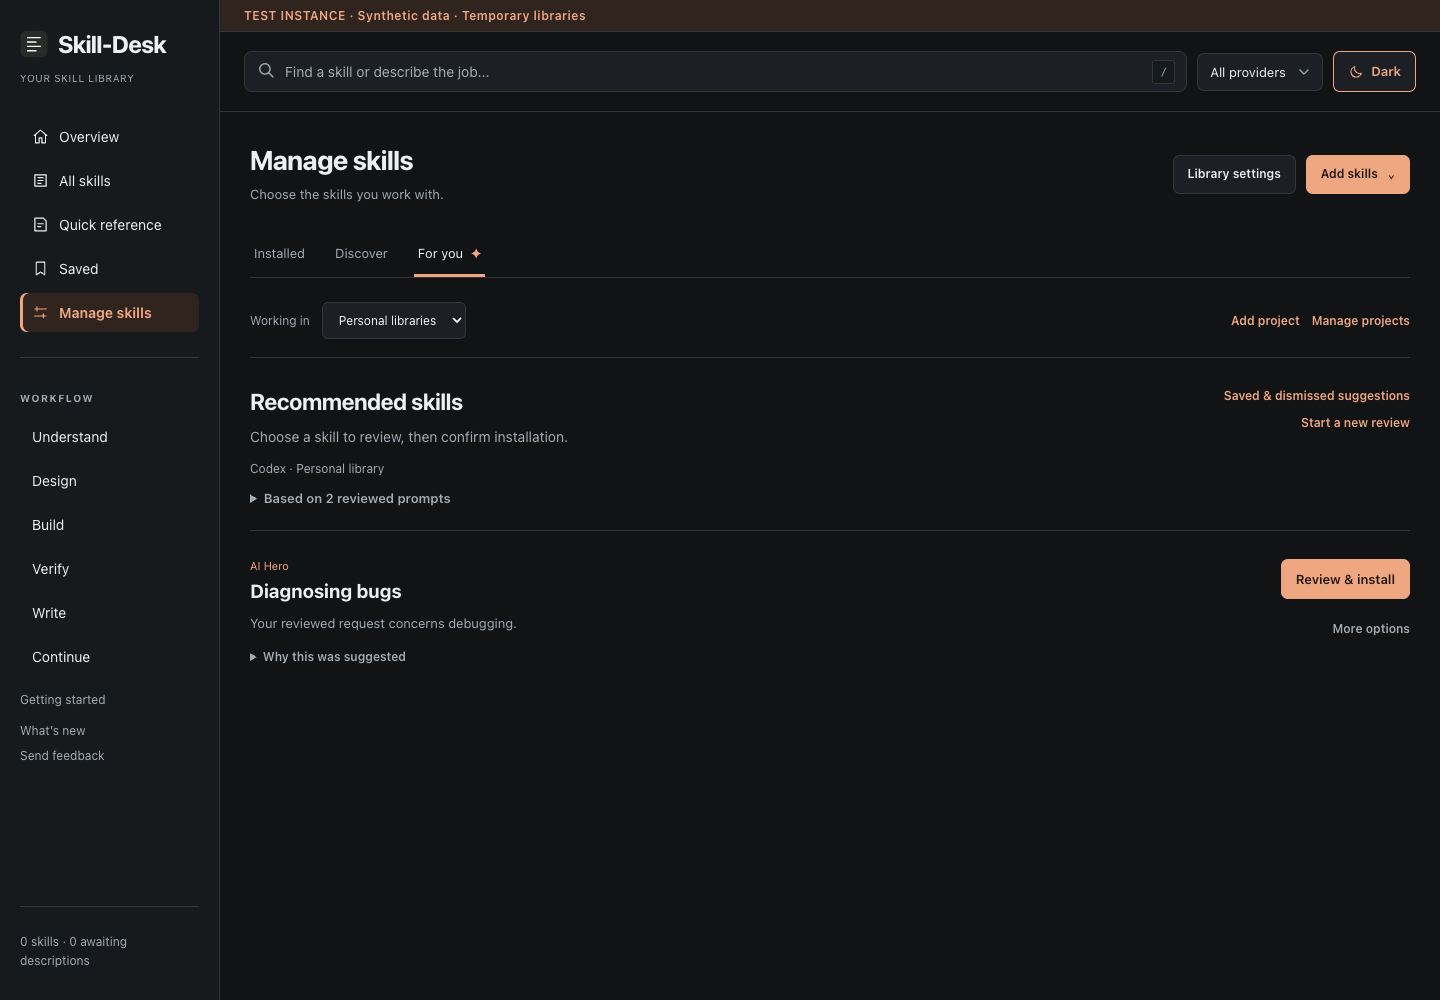
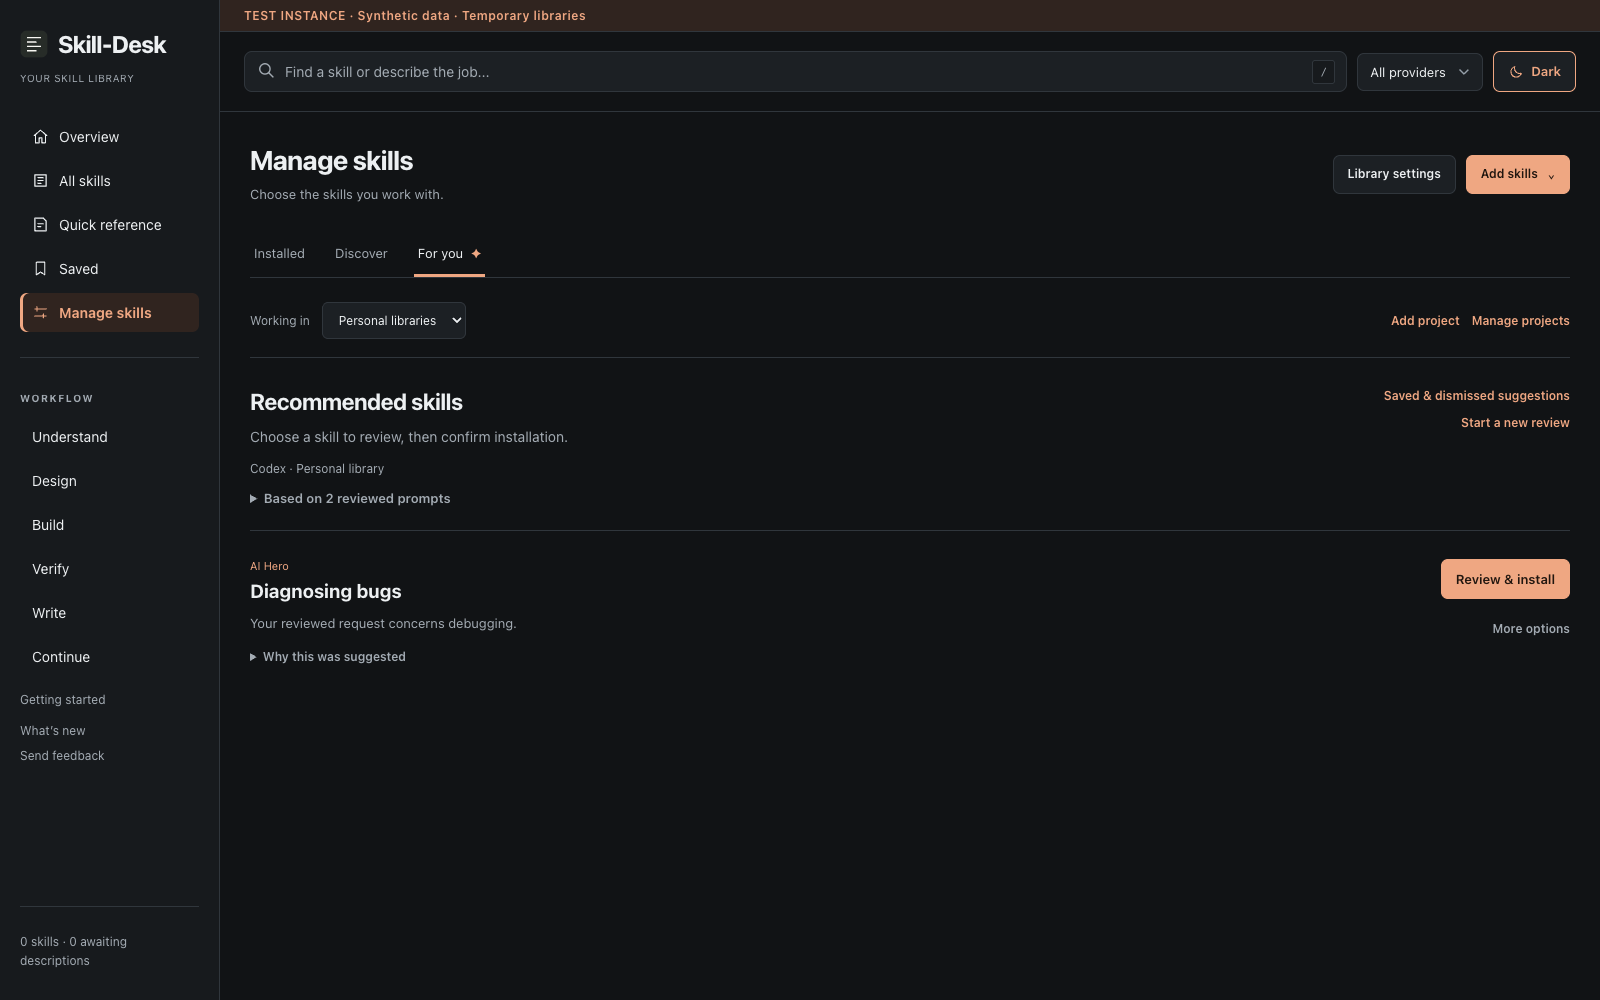
test(release): close SQLite fixture and retain full-resolution tour capture

diff --git a/tests/test_workbench.py b/tests/test_workbench.py
@@ -1,4 +1,5 @@
 import json
+from contextlib import closing
 import os
 from pathlib import Path
 import sqlite3
@@ -148,7 +149,7 @@ class WorkbenchTests(unittest.TestCase):
   self.assertEqual(sample['found'],2);self.assertEqual(sample['coverage']['codex']['sessionsFound'],1)
  def test_opencode_v2_reader_ignores_assistants_and_child_sessions(self):
   root=self.base/'opencode';root.mkdir();now=1800000000
-  with sqlite3.connect(root/'opencode.db') as db:
+  with closing(sqlite3.connect(root/'opencode.db')) as db, db:
    db.execute('create table session_v2 (id text,directory text,parent_id text)');db.execute('create table session_message (session_id text,type text,time_created integer,data text)')
    db.executemany('insert into session_v2 values (?,?,?)',[('root','/fixture',None),('child','/fixture','root')])
    for sid,role,text in [('root','user','Review the synthetic user prompt'),('root','assistant','PRIVATE assistant response'),('child','user','PRIVATE delegated prompt')]:
